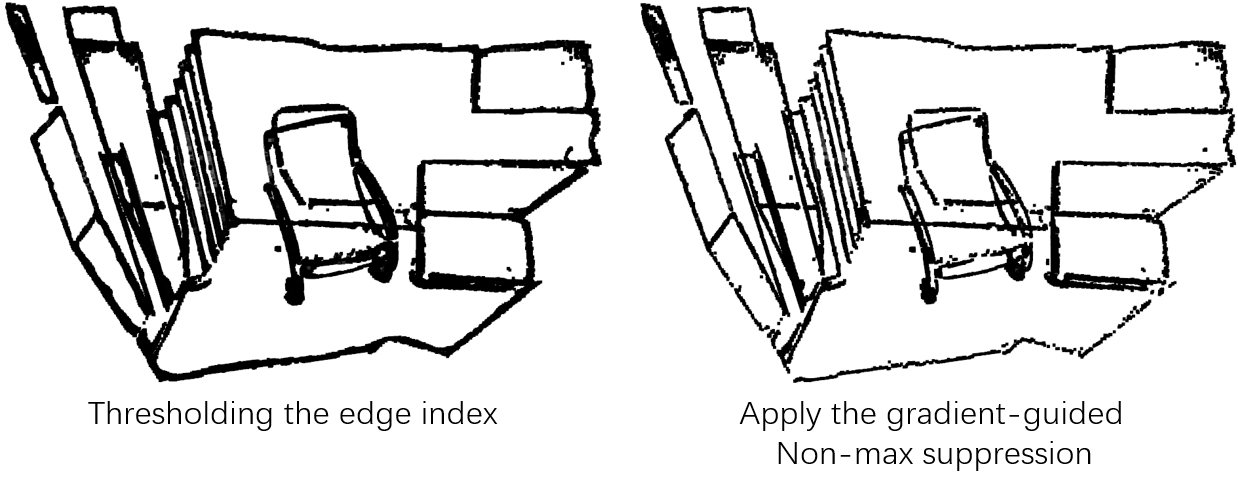
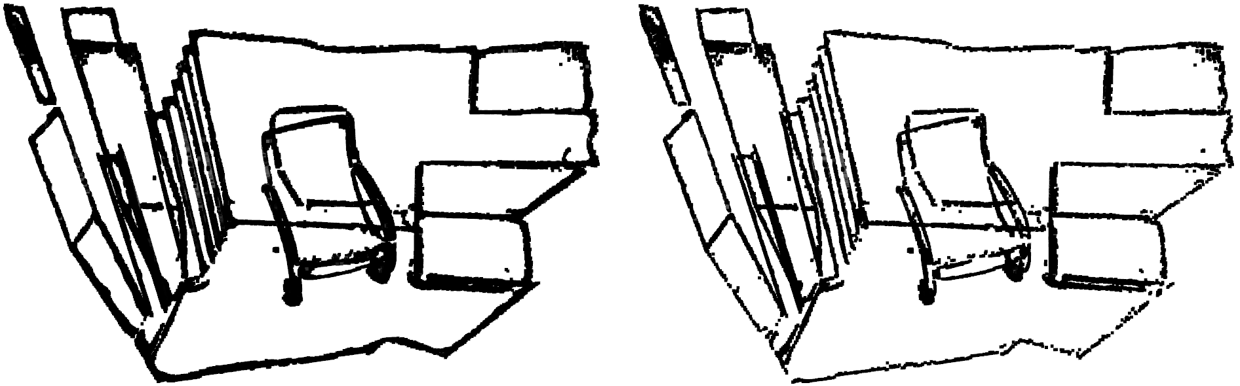
News

Changed region(s): [[0.0, 0.0, 1.0, 0.9948]]

diff --git a/README.md b/README.md
@@ -21,6 +21,6 @@ A simple implementation for region growing based on the normal differences.
 
 ## Edge points detection demos
 <div align=center><img src="https://github.com/GeoVectorMatrix/Open3D_Based_Py/blob/main/Imgs/Edges.png" width="600" height="270"/><br/></div>
-<p align="center"> Extracting 3D edge candidates from point clouds. </p>
+<p align="center"> Extracting 3D edge candidates from point clouds. Edge candidates by thresholding the edge index (left). After applying the gradient-guidednon-maximum suppression (right). </p>
 
 ## TBD...
